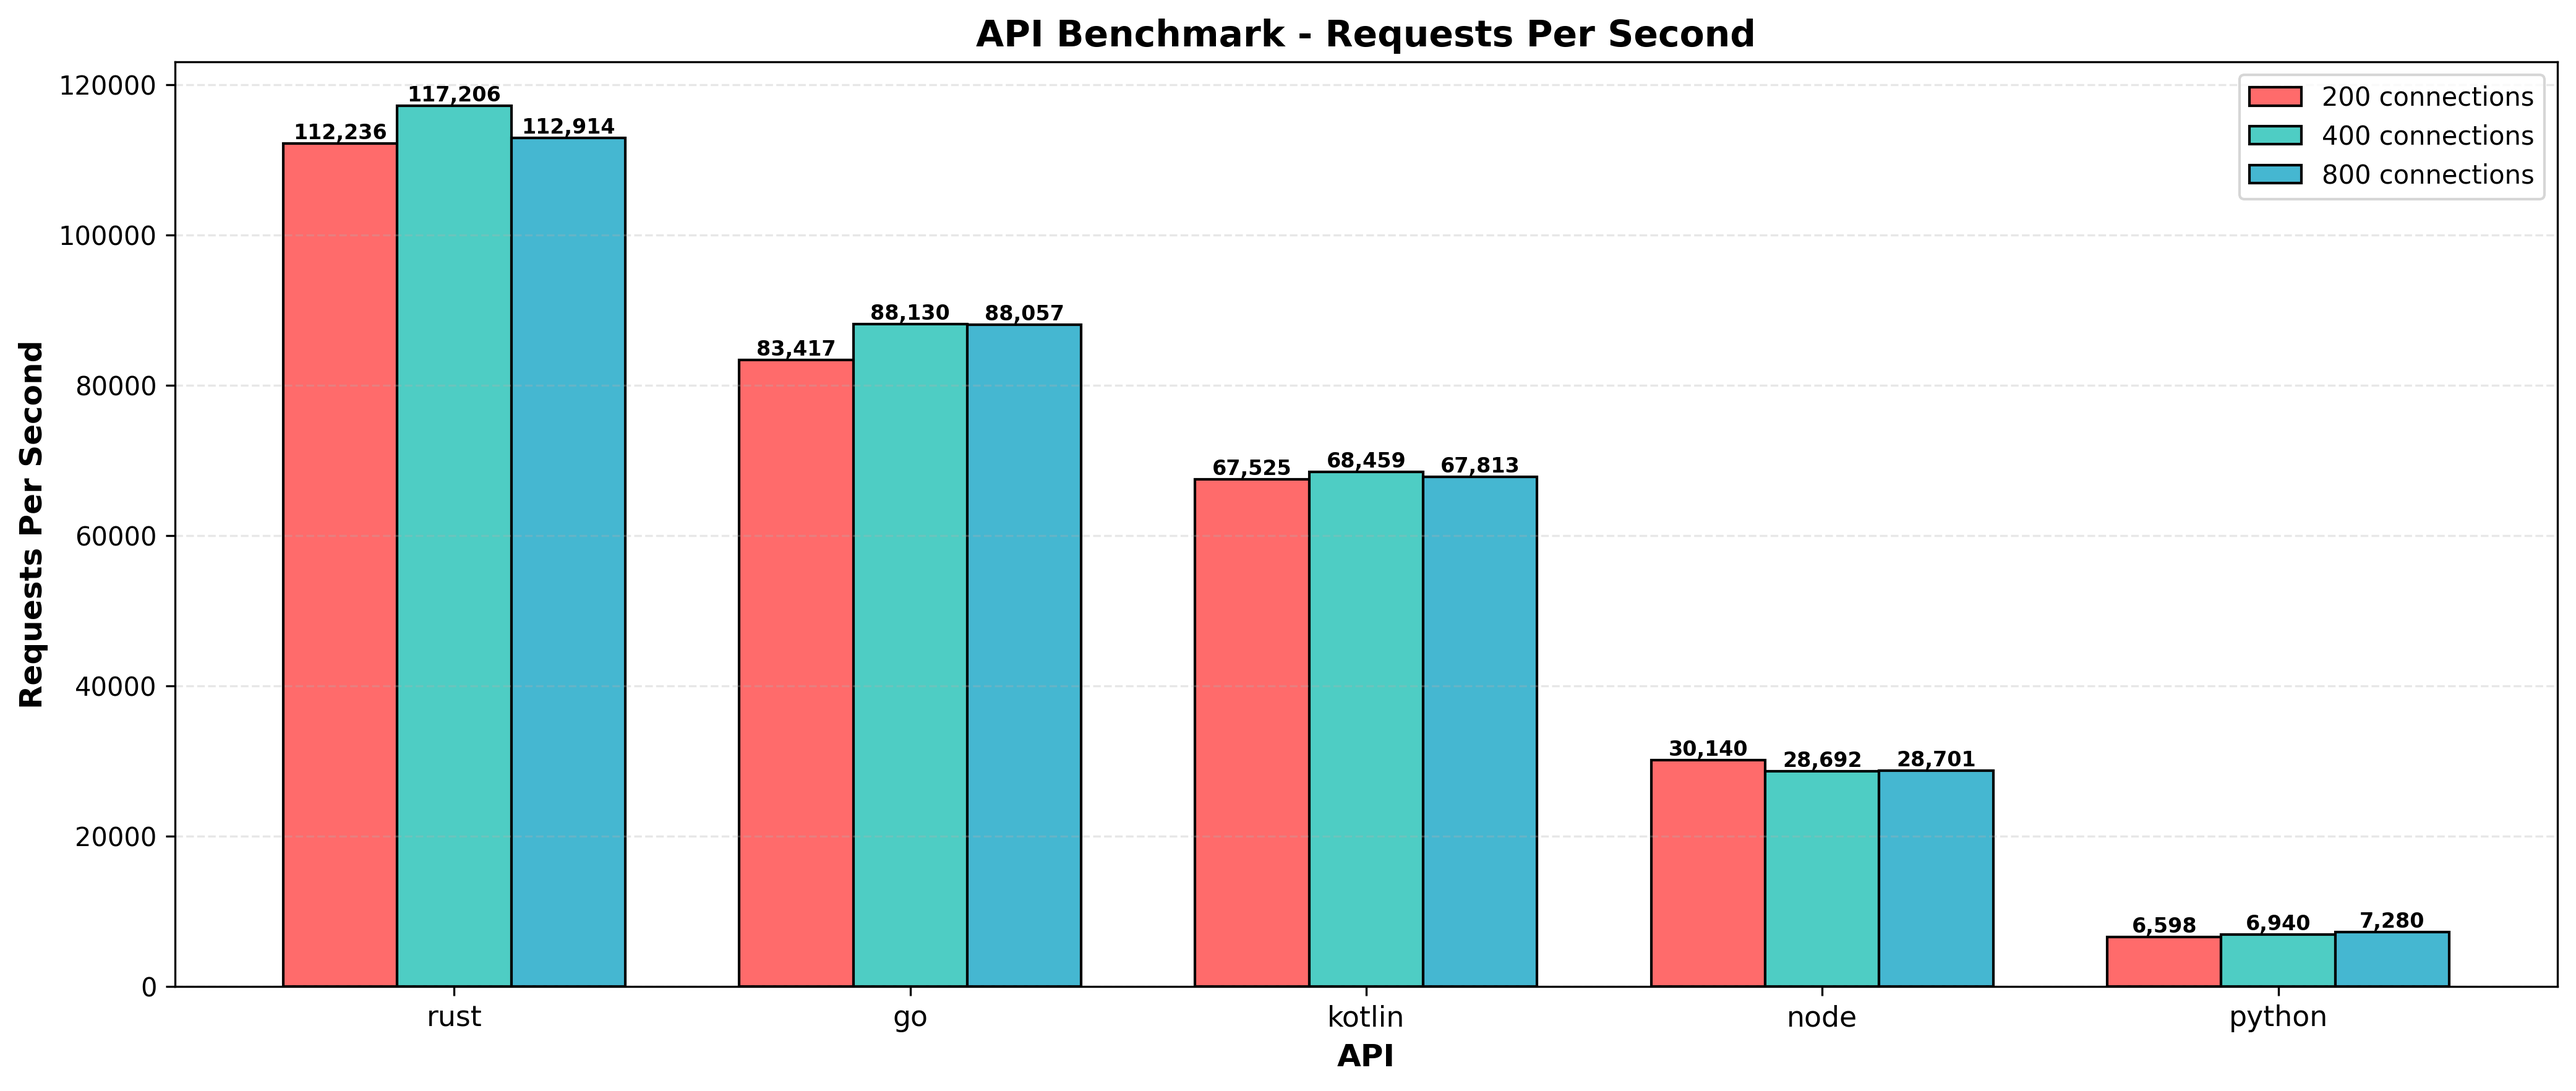
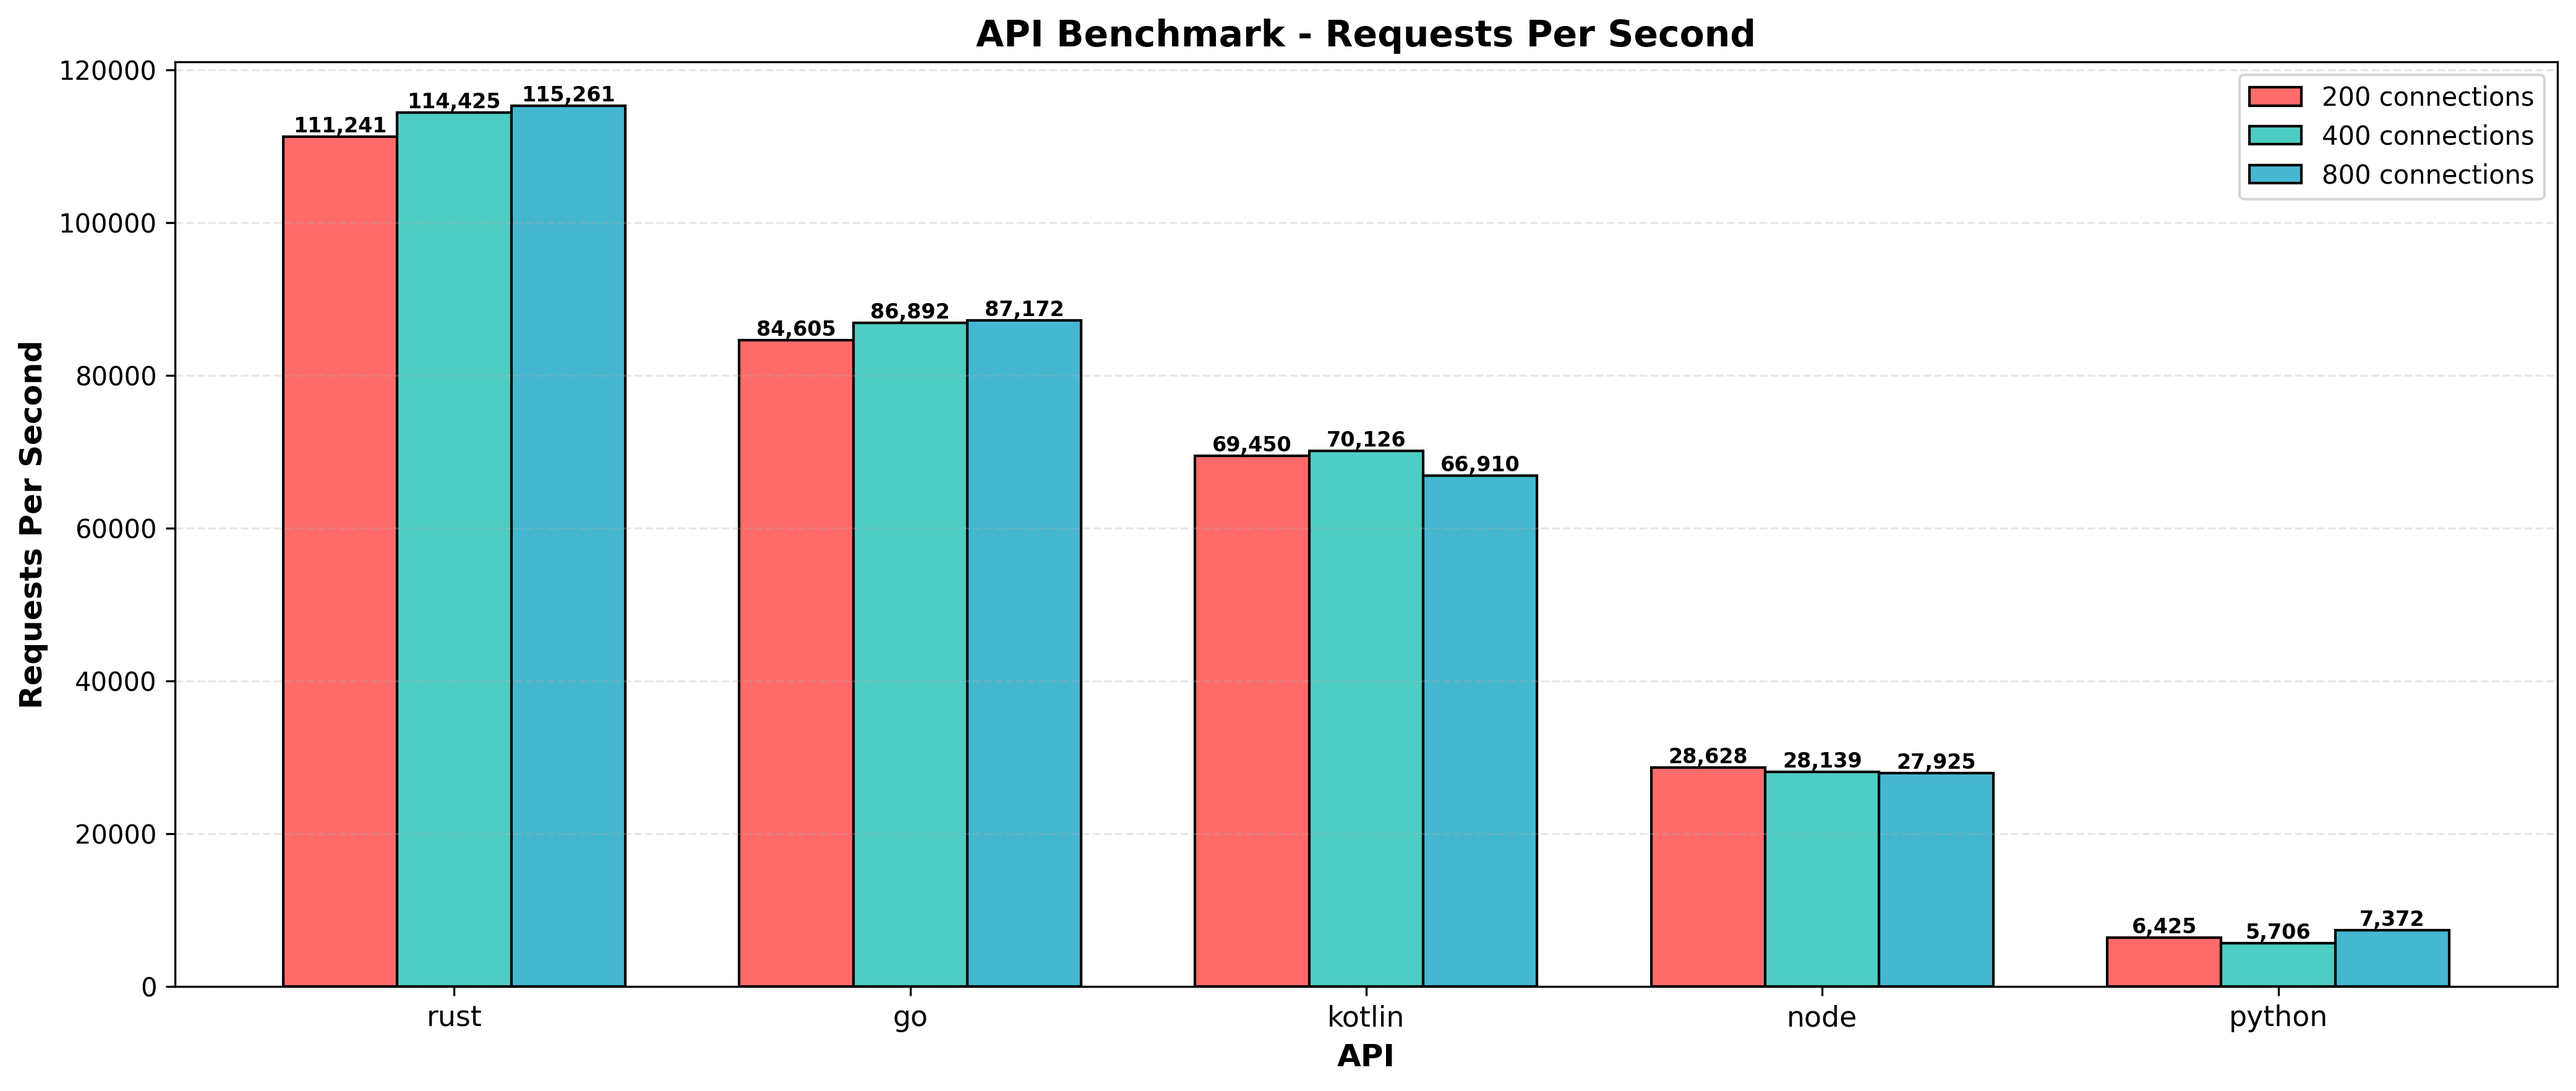
results from github actions autocommit

diff --git a/results/raw.md b/results/raw.md
@@ -1,6 +1,6 @@
 # Results
 ## Timestamp
-Thu Jan 8 11:09:50 UTC 2026
+Sat Jan 10 11:06:27 UTC 2026
 ## Hardware Info
 | CPU Model | Num CPUs | Memory |
 | --------- | -------- | ------ |
@@ -9,18 +9,18 @@ Thu Jan 8 11:09:50 UTC 2026
 ## Benchmarks of 1 Million Requests
 | Test Name | HTTP Conns | Success Rate | Test Seconds | Requests per Second | P50 Millis | P99 Millis | P99.9 Millis | API Memory MB | API CPU Time | API Threads |
 | --------- | ---------- | ------------ | ------------ | ------------------- | ---------- | ---------- | ------------ | ------------- | ------------ | ----------- |
-| rust | 200 | 100.0% | 8.9 | 112235.6 | 1.6326 | 4.5855 | 6.3015 | 8.4 | 00:00:17 | 5 |
-| rust | 400 | 100.0% | 8.5 | 117205.7 | 3.2131 | 7.3585 | 10.4101 | 13.0 | 00:00:16 | 5 |
-| rust | 800 | 100.0% | 8.8 | 112914.5 | 6.9436 | 12.3084 | 18.5491 | 22.2 | 00:00:17 | 5 |
-| go | 200 | 100.0% | 11.9 | 83416.9 | 1.8729 | 7.5445 | 10.7592 | 18.2 | 00:00:28 | 11 |
-| go | 400 | 100.0% | 11.3 | 88129.8 | 3.8477 | 13.2978 | 18.7915 | 24.5 | 00:00:27 | 10 |
-| go | 800 | 100.0% | 11.3 | 88056.6 | 8.1424 | 23.9900 | 37.3785 | 37.1 | 00:00:27 | 10 |
-| kotlin | 200 | 100.0% | 14.8 | 67525.2 | 2.0333 | 12.0133 | 31.7095 | 518.8 | 00:00:40 | 30 |
-| kotlin | 400 | 100.0% | 14.6 | 68458.8 | 4.8106 | 22.8825 | 71.9414 | 519.4 | 00:00:40 | 30 |
-| kotlin | 800 | 100.0% | 14.8 | 67812.6 | 9.3486 | 27.8652 | 77.1548 | 618.3 | 00:00:41 | 30 |
-| node | 200 | 100.0% | 33.1 | 30140.3 | 5.7745 | 11.0518 | 12.1461 | 104.6 | 00:00:33 | 7 |
-| node | 400 | 100.0% | 34.8 | 28691.8 | 11.8542 | 18.8746 | 21.0043 | 142.0 | 00:00:35 | 7 |
-| node | 800 | 100.0% | 34.8 | 28701.3 | 24.2048 | 40.5930 | 45.1817 | 148.6 | 00:00:35 | 7 |
-| python | 200 | 100.0% | 241.4 | 6598.4 | 47.4570 | 55.3895 | 59.4522 | 34.4 | 00:04:01 | 1 |
-| python | 400 | 100.0% | 231.5 | 6940.0 | 90.9233 | 106.6706 | 112.5794 | 37.0 | 00:03:51 | 1 |
-| python | 800 | 100.0% | 231.7 | 7279.9 | 183.6167 | 207.0027 | 222.2266 | 42.9 | 00:03:51 | 1 |
+| rust | 200 | 100.0% | 8.9 | 111241.0 | 1.6564 | 4.5588 | 6.0500 | 8.4 | 00:00:17 | 5 |
+| rust | 400 | 100.0% | 8.7 | 114425.1 | 3.2465 | 7.7031 | 10.7838 | 13.1 | 00:00:17 | 5 |
+| rust | 800 | 100.0% | 8.7 | 115261.1 | 6.8573 | 10.9428 | 14.8548 | 22.0 | 00:00:17 | 5 |
+| go | 200 | 100.0% | 11.8 | 84604.7 | 1.8601 | 7.3386 | 10.2226 | 17.7 | 00:00:27 | 11 |
+| go | 400 | 100.0% | 11.5 | 86892.1 | 3.8866 | 13.7664 | 19.8181 | 24.4 | 00:00:27 | 10 |
+| go | 800 | 100.0% | 11.5 | 87171.8 | 8.1664 | 24.9033 | 36.0899 | 37.2 | 00:00:27 | 11 |
+| kotlin | 200 | 100.0% | 14.4 | 69450.3 | 1.9928 | 12.2228 | 34.6864 | 520.7 | 00:00:39 | 30 |
+| kotlin | 400 | 100.0% | 14.2 | 70126.5 | 4.6244 | 21.0827 | 58.5509 | 534.0 | 00:00:39 | 30 |
+| kotlin | 800 | 100.0% | 14.9 | 66910.2 | 9.8399 | 41.3952 | 113.7150 | 626.1 | 00:00:41 | 30 |
+| node | 200 | 100.0% | 34.9 | 28628.0 | 5.7477 | 10.9678 | 11.2342 | 106.3 | 00:00:35 | 7 |
+| node | 400 | 100.0% | 35.5 | 28138.6 | 12.1326 | 20.6658 | 25.3523 | 139.9 | 00:00:35 | 7 |
+| node | 800 | 100.0% | 35.8 | 27924.9 | 24.8434 | 40.7229 | 42.0271 | 148.1 | 00:00:36 | 7 |
+| python | 200 | 100.0% | 238.5 | 6424.8 | 46.7512 | 54.7043 | 58.0563 | 35.0 | 00:03:58 | 1 |
+| python | 400 | 100.0% | 238.6 | 5705.8 | 94.2184 | 107.7288 | 111.4360 | 37.4 | 00:03:58 | 1 |
+| python | 800 | 100.0% | 240.1 | 7371.7 | 190.1864 | 216.2792 | 224.3164 | 42.4 | 00:04:00 | 1 |

diff --git a/results/latest.md b/results/latest.md
@@ -1,6 +1,6 @@
 # Latest Results
 
-Timestamp: `Thu Jan 8 11:09:50 UTC 2026`
+Timestamp: `Sat Jan 10 11:06:27 UTC 2026`
 
 ## Requests Per Second
 ![Requests Per Second](rps.png)
